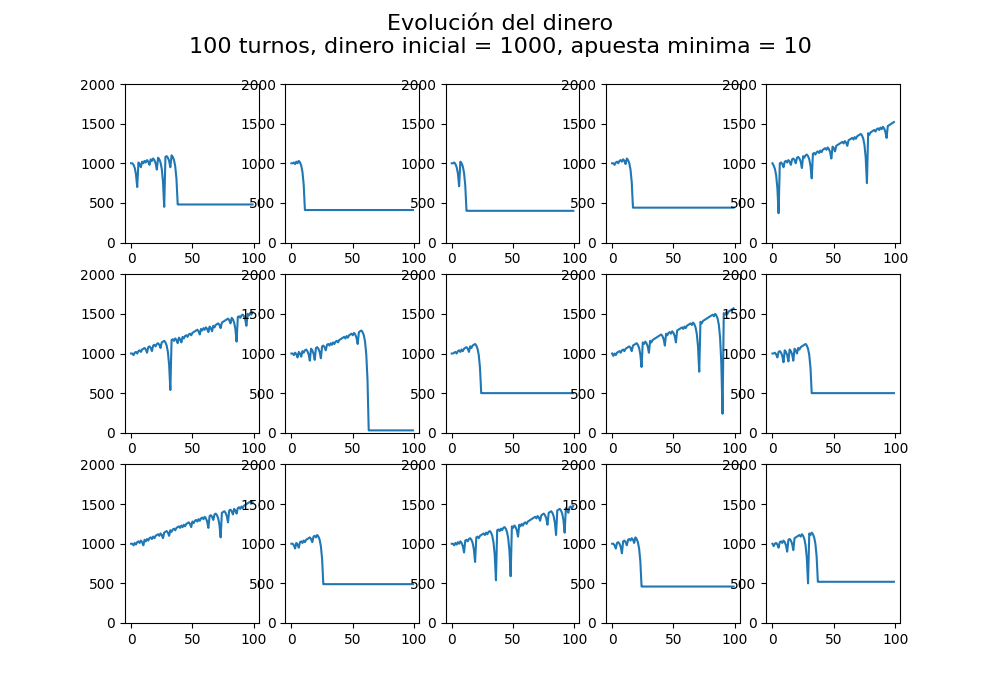
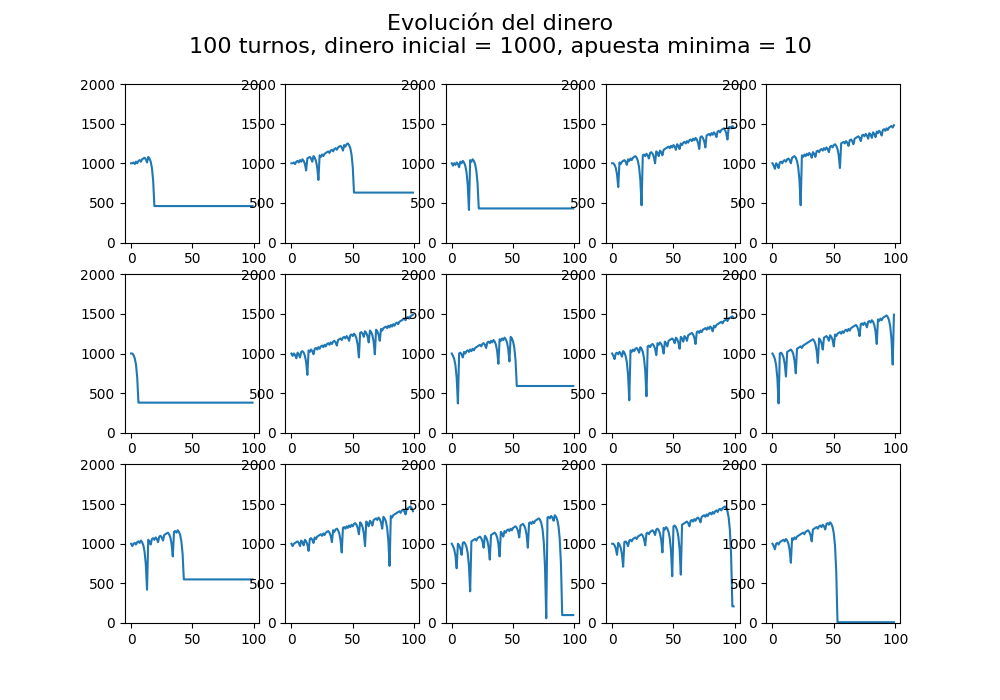
ruleta terminado

diff --git a/RULETA.py b/RULETA.py
@@ -35,14 +35,17 @@ def hay_dinero_suficiento(dinero,apuesta):
 def simulacion_turno(turnos, dinero_inicial, dinero_minimo_apuesta):
     se_ha_perdido = False
     historial_dinero = np.zeros(turnos)
+    historial_apuesta = np.zeros(turnos)
     dinero = dinero_inicial # Dinero al inicio 
     historial_dinero[0] = dinero
 
     # Apostar:
     apuesta = dinero_minimo_apuesta
     dinero -= apuesta
+    historial_apuesta[0] = apuesta
 
     for i in range(1, turnos):
+        historial_apuesta[i] = apuesta
         ganancias = ruleta.apostar(apuesta)
         if ganancias == 0 and hay_dinero_suficiento(dinero, apuesta * 2): 
             apuesta = apuesta * 2
@@ -64,22 +67,28 @@ def simulacion_turno(turnos, dinero_inicial, dinero_minimo_apuesta):
     #     plt.ylim([0,np.max(historial_dinero) + 10])
     #     plt.show()
 
-    return dinero_final, se_ha_perdido, historial_dinero
+    return dinero_final, se_ha_perdido, historial_dinero, historial_apuesta
 
 
 
-random.seed(124)
+
+# ---------------------------------------------------
+# Evolución del dinero:
+# ---------------------------------------------------
 
 # Ejemplo 1
+random.seed(124)
+
 n_turnos = 100
 dinero_inicial = 1000
 dinero_minimo_apuesta = 1
 
 fig, axs = plt.subplots(3, 5, figsize=(10, 7))
 fig.suptitle(f'Evolución del dinero\n{n_turnos} turnos, dinero inicial = {dinero_inicial}, apuesta minima = {dinero_minimo_apuesta}', fontsize=16)
+
 for i in range(3):
     for j in range(5):
-        dinero_final, se_ha_perdido, historial_dinero = simulacion_turno(turnos = n_turnos, dinero_inicial= dinero_inicial, dinero_minimo_apuesta = dinero_minimo_apuesta)
+        dinero_final, se_ha_perdido, historial_dinero, historial_apuesta = simulacion_turno(turnos = n_turnos, dinero_inicial= dinero_inicial, dinero_minimo_apuesta = dinero_minimo_apuesta)
         axs[i, j].plot(historial_dinero)
         axs[i,j].set_ylim([0, dinero_inicial + 100*dinero_minimo_apuesta])
 
@@ -89,6 +98,8 @@ plt.show()
 
 
 # Ejemplo 2
+random.seed(124)
+
 n_turnos = 100
 dinero_inicial = 1000
 dinero_minimo_apuesta = 10
@@ -97,16 +108,65 @@ fig, axs = plt.subplots(3, 5, figsize=(10, 7))
 fig.suptitle(f'Evolución del dinero\n{n_turnos} turnos, dinero inicial = {dinero_inicial}, apuesta minima = {dinero_minimo_apuesta}', fontsize=16)
 for i in range(3):
     for j in range(5):
-        dinero_final, se_ha_perdido, historial_dinero = simulacion_turno(turnos = n_turnos, dinero_inicial= dinero_inicial, dinero_minimo_apuesta = dinero_minimo_apuesta)
+        dinero_final, se_ha_perdido, historial_dinero, historial_apuesta = simulacion_turno(turnos = n_turnos, dinero_inicial= dinero_inicial, dinero_minimo_apuesta = dinero_minimo_apuesta)
         axs[i, j].plot(historial_dinero)
         axs[i,j].set_ylim([0, dinero_inicial + 100*dinero_minimo_apuesta])
 
 plt.savefig(os.path.join(directorio_actual, "Imagenes", "Evolucion_dinero_ejemplo_2"))
 plt.show()
 
+
+
+
+# ---------------------------------------------------
+# Cantidad apostada por turno:
+# ---------------------------------------------------
+
+
+# Ejemplo 1
+random.seed(124)
+
+n_turnos = 100
+dinero_inicial = 1000
+dinero_minimo_apuesta = 1
+
+fig, axs = plt.subplots(3, 5, figsize=(10, 7))
+fig.suptitle(f'Dinero apostado en cada turno\n{n_turnos} turnos, dinero inicial = {dinero_inicial}, apuesta minima = {dinero_minimo_apuesta}', fontsize=16)
+
+for i in range(3):
+    for j in range(5):
+        dinero_final, se_ha_perdido, historial_dinero, historial_apuesta = simulacion_turno(turnos = n_turnos, dinero_inicial= dinero_inicial, dinero_minimo_apuesta = dinero_minimo_apuesta)
+        axs[i, j].plot(historial_apuesta)
+
+plt.savefig(os.path.join(directorio_actual, "Imagenes", "Dinero_apostado_ejemplo_1"))
+plt.show()
+
+
+
+# Ejemplo 2
+random.seed(124)
+
+n_turnos = 100
+dinero_inicial = 1000
+dinero_minimo_apuesta = 10
+
+fig, axs = plt.subplots(3, 5, figsize=(10, 7))
+fig.suptitle(f'Dinero apostado en cada turno\n{n_turnos} turnos, dinero inicial = {dinero_inicial}, apuesta minima = {dinero_minimo_apuesta}', fontsize=16)
+for i in range(3):
+    for j in range(5):
+        dinero_final, se_ha_perdido, historial_dinero, historial_apuesta = simulacion_turno(turnos = n_turnos, dinero_inicial= dinero_inicial, dinero_minimo_apuesta = dinero_minimo_apuesta)
+        axs[i, j].plot(historial_apuesta)
+
+plt.savefig(os.path.join(directorio_actual, "Imagenes", "Dinero_apostado_ejemplo_2"))
+plt.show()
+
+
+
 # ------------------------------------------------------
 # Cantidad de victorias y derrotas y dinero medio final:
 # ------------------------------------------------------
+random.seed(124)
+
 
 # Ejemplo 1
 N = 100000
@@ -117,7 +177,7 @@ dinero_minimo_apuesta = 1
 h = {"Perdido":0, "Ganado": 0}
 media = 0
 for i in range(N):
-    dinero_final, se_ha_perdido, historial_dinero = simulacion_turno(turnos = n_turnos, dinero_inicial= dinero_inicial, dinero_minimo_apuesta = dinero_minimo_apuesta)
+    dinero_final, se_ha_perdido, historial_dinero, historial_apuesta = simulacion_turno(turnos = n_turnos, dinero_inicial= dinero_inicial, dinero_minimo_apuesta = dinero_minimo_apuesta)
     if se_ha_perdido:
         h["Perdido"] += 1
     else:
@@ -145,7 +205,7 @@ dinero_minimo_apuesta = 10
 h = {"Perdido":0, "Ganado": 0}
 media = 0
 for i in range(N):
-    dinero_final, se_ha_perdido, historial_dinero = simulacion_turno(turnos = n_turnos, dinero_inicial= dinero_inicial, dinero_minimo_apuesta = dinero_minimo_apuesta)
+    dinero_final, se_ha_perdido, historial_dinero, historial_apuesta = simulacion_turno(turnos = n_turnos, dinero_inicial= dinero_inicial, dinero_minimo_apuesta = dinero_minimo_apuesta)
     if se_ha_perdido:
         h["Perdido"] += 1
     else:
@@ -176,7 +236,7 @@ proporciones = np.zeros(100)
 for i,dinero_inicial in  enumerate(dineros_iniciales):
     media = 0
     for _ in range(N):
-        dinero_final, se_ha_perdido, historial_dinero = simulacion_turno(turnos = n_turnos, dinero_inicial= dinero_inicial, dinero_minimo_apuesta = dinero_minimo_apuesta)
+        dinero_final, se_ha_perdido, historial_dinero, historial_apuesta = simulacion_turno(turnos = n_turnos, dinero_inicial= dinero_inicial, dinero_minimo_apuesta = dinero_minimo_apuesta)
         media += dinero_final
     media = media / N
     proporciones[i] = media / dinero_inicial
@@ -187,7 +247,10 @@ for i, dinero in enumerate(dineros_iniciales):
 plt.bar(dineros_iniciales,proporciones)
 plt.axhline(y=1, color='r', linestyle='--')
 plt.xticks(range(len(dineros_iniciales)), [str(int(round(float(dinero))) // 1000) for dinero in dineros_iniciales], rotation=90)
-plt.text(len(dineros_iniciales) - 0.5, -0.1, r"$\times 1000$", ha='right')
+plt.text(len(dineros_iniciales) + 8, 0.79, r"$\times 1000€$", ha='right', fontsize = 20)
+plt.ylim([0.8,1.05])
+plt.title(f"Proporción media del dinero que queda tras una ronda de {n_turnos} turnos\nApuesta mínima = {dinero_minimo_apuesta}")
+plt.xlabel("Dinero inicial")
 plt.savefig(os.path.join(directorio_actual, "Imagenes", "Proporción del dinero final para diferentes turnos de dinero inicial"))
 plt.show()
 
@@ -197,3 +260,25 @@ dinero_inicial_propmax = dineros_iniciales[indice]
 print(f"Proporción máxima: {prop_max}")
 print(f"Dinero inicial para proporción máxima: {dinero_inicial_propmax}")
 
+
+
+
+# -------------------------------------------------------
+# Expected value (apostar 1$ y de media -0.053$ ganancia)
+# -------------------------------------------------------
+N_es = np.linspace(100,100000,1000, dtype= "int")
+ganancias_medias = []
+for N in N_es:
+    ganancias = np.zeros(N)
+    for i in range(N):
+        ganancias[i] = ruleta.apostar(1) - 1
+    ganancias_medias.append(np.mean(ganancias))
+
+plt.plot(N_es, ganancias_medias)
+plt.axhline(y=0, color='g', linestyle='--')
+plt.axhline(y=-0.027, color='r', linestyle='--')
+plt.xlabel("Cantidad de iteraciones")
+plt.ylabel("Ganancia media")
+plt.title("Ganancia media apostando 1€")
+plt.savefig(os.path.join(directorio_actual, "Imagenes", "Ganancia_media_en_base_al_numero_iteraciones"))
+plt.show()
